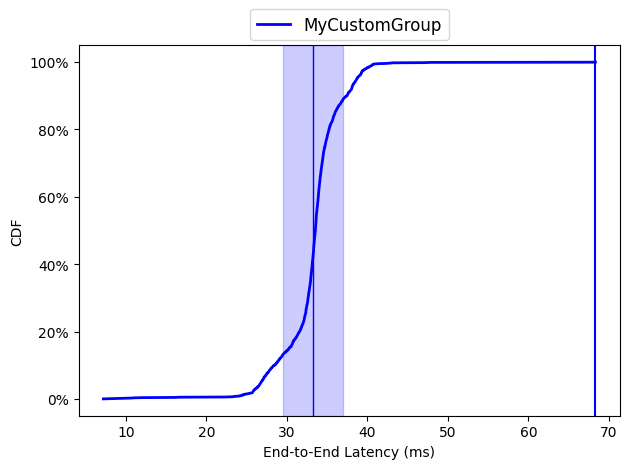
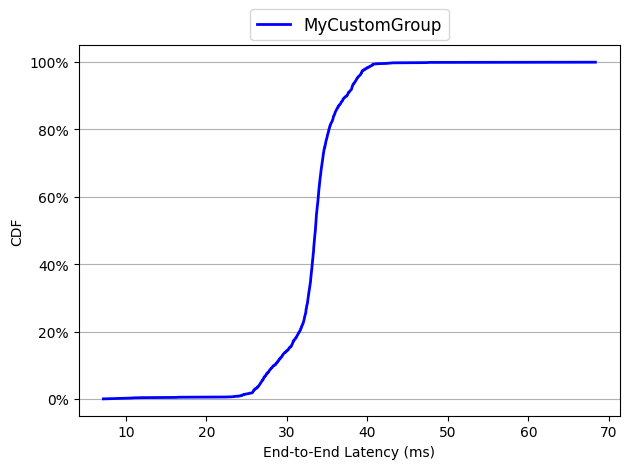
removed average, stddeviation and max from the CDF graphs

Changed region(s): [[0.4222, 0.0896, 0.573, 0.8955], [0.9349, 0.1194, 0.9651, 0.8657]]

diff --git a/tutorials/benchmarking/analyze.py b/tutorials/benchmarking/analyze.py
@@ -122,9 +122,6 @@ def draw_cdf(ax, latencies, label=None):
     global index
 
     data, p = get_cdf_data(latencies)
-    data_max = max(data)
-    data_avg = np.mean(data)
-    data_stddev = np.std(data)
 
     colorindex = index % len(colors)
     linestylesindex = index % len(linestyles)
@@ -135,15 +132,6 @@ def draw_cdf(ax, latencies, label=None):
         linewidth=2.0,
         color=colors[colorindex],
         linestyle=linestyles[linestylesindex],
-    )
-    ax.axvline(
-        x=data_avg, color=colors[colorindex], linestyle=linestyles[linestylesindex], linewidth=1
-    )
-    # put a shaded area of stddev around average latency
-    ax.axvspan(data_avg - data_stddev, data_avg + data_stddev, alpha=0.2, color=colors[colorindex])
-
-    ax.axvline(
-        x=data_max, color=colors[colorindex], linestyle=linestyles[linestylesindex], linewidth=1.5
     )
     index += 1
 
@@ -158,6 +146,7 @@ def init_cdf_plot(title=None):
 
 
 def complete_cdf_plot(fig, ax, operator_legends=None):
+    ax.grid(True, axis="y")
     vals = ax.get_yticks()
     # convert the Y-axis ticks to percentage
     ax.set_yticks(vals)

diff --git a/tutorials/benchmarking/README.md b/tutorials/benchmarking/README.md
@@ -39,7 +39,9 @@ $ python tutorials/benchmarking/benchmark.py -a <application name> <other option
 
 `python tutorials/benchmarking/benchmark.py -h` shows all the possible evaluation options.
 
-All the log filenames are printed out at the end of the evaluation. The format of the flow tracking log filename is:
+All the log filenames are printed out at the end of the evaluation. 
+
+The format of the flow tracking log filename is:
 `logger_<scheduler>_<run_number>_<instance-id>.log`. The format of the GPU utilization log filename
 is: `gpu_utilization_<scheduler>_<run_number>.csv`.
 
